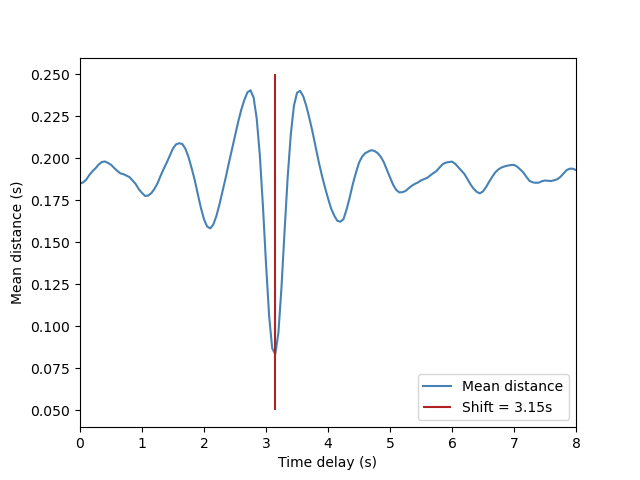
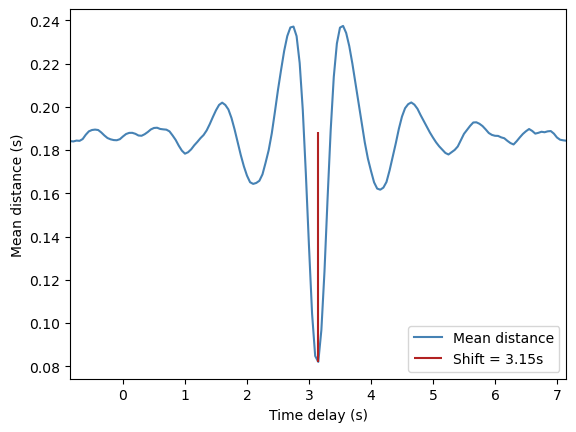
fixed plotting and unix epoch float overflow

diff --git a/tests/test_performances.py b/tests/test_performances.py
@@ -5,7 +5,7 @@ import sys
 import time
 import numpy as np
 np.random.seed(0)
-sys.path.append(".")
+sys.path.append("src")
 
 N = 1_000                 # number of events in the random arrays
 TIME_SHIFT = np.pi        # true time-shift between the two arrays
@@ -23,15 +23,15 @@ arr_ref = np.sort(np.cumsum(np.random.normal(loc=1, scale=0.25, size=N)))
 arr_sig = np.sort(arr_ref + TIME_SHIFT + np.random.normal(loc=0, scale=0.1, size=N))
 
 # Time the numba-solution
-from src.nearest_advocate_numba import nearest_advocate
+from nearest_advocate_numba import nearest_advocate
 # run once before the test to just-in-time compile it
-np_nearest = nearest_advocate(arr_ref=arr_ref, arr_sig=arr_sig, 
-                              td_min=-1, td_max=1, sps=SAMPLES_PER_S, sparse_factor=1, 
+np_nearest = nearest_advocate(arr_ref=arr_ref, arr_sig=arr_sig,
+                              td_min=-1, td_max=1, sps=SAMPLES_PER_S, sparse_factor=1,
                               dist_max=DEF_DIST, regulate_paddings=REGULATE_PADDINGS, dist_padding=DEF_DIST)
 
 start_time = time.time()
-np_nearest = nearest_advocate(arr_ref=arr_ref, arr_sig=arr_sig, 
-                              td_min=TD_MIN, td_max=TD_MAX, sps=SAMPLES_PER_S, sparse_factor=1, 
+np_nearest = nearest_advocate(arr_ref=arr_ref, arr_sig=arr_sig,
+                              td_min=TD_MIN, td_max=TD_MAX, sps=SAMPLES_PER_S, sparse_factor=1,
                               dist_max=DEF_DIST, regulate_paddings=REGULATE_PADDINGS, dist_padding=DEF_DIST)
 pytime = time.time() - start_time
 time_shift, min_mean_dist = np_nearest[np.argmin(np_nearest[:,1])]
@@ -40,35 +40,34 @@ print(f"Numba:   \t{pytime:.8f} s, \t detected time shift: {time_shift:.2f} s, \
 # # Time the Cython-solution
 # from src.nearest_advocate_cython import nearest_advocate
 # start_time = time.time()
-# np_nearest = nearest_advocate(arr_ref=arr_ref, arr_sig=arr_sig, 
-#                                 td_min=TD_MIN, td_max=TD_MAX, sps=SAMPLES_PER_S, sparse_factor=1, 
+# np_nearest = nearest_advocate(arr_ref=arr_ref, arr_sig=arr_sig,
+#                                 td_min=TD_MIN, td_max=TD_MAX, sps=SAMPLES_PER_S, sparse_factor=1,
 #                                 dist_max=DEF_DIST, regulate_paddings=REGULATE_PADDINGS, dist_padding=DEF_DIST)
 # pytime = time.time() - start_time
 # time_shift, min_mean_dist = np_nearest[np.argmin(np_nearest[:,1])]
 # print(f"Cython:   \t{pytime:.8f} s, \t detected time shift: {time_shift:.2f} s, \t minimal mean distance: {min_mean_dist:.6f} s")
 
 # Time the pure Python-solution
-from src.nearest_advocate_python import nearest_advocate
+from nearest_advocate_python import nearest_advocate
 start_time = time.time()
-np_nearest = nearest_advocate(arr_ref=arr_ref, arr_sig=arr_sig, 
-                              td_min=TD_MIN, td_max=TD_MAX, sps=SAMPLES_PER_S, sparse_factor=1, 
+np_nearest = nearest_advocate(arr_ref=arr_ref, arr_sig=arr_sig,
+                              td_min=TD_MIN, td_max=TD_MAX, sps=SAMPLES_PER_S, sparse_factor=1,
                               dist_max=DEF_DIST, regulate_paddings=REGULATE_PADDINGS, dist_padding=DEF_DIST)
 pytime = time.time() - start_time
 time_shift, min_mean_dist = np_nearest[np.argmin(np_nearest[:,1])]
 print(f"Python:   \t{pytime:.8f} s, \t detected time shift: {time_shift:.2f} s, \t minimal mean distance: {min_mean_dist:.6f} s")
 
 
-
 print("\n" + " Compare versions for multiple lengths ".center(60, "#"))
 print("Method \t" + "".join([str(l).center(10) for l in LENGTHS]))
 
 # Time the numba-solution
-from src.nearest_advocate_numba import nearest_advocate
+from nearest_advocate_numba import nearest_advocate
 # run once before the test to just-in-time compile it
-_ = nearest_advocate(arr_ref=arr_ref, arr_sig=arr_sig, 
-                      td_min=TD_MIN, td_max=TD_MAX, sps=SAMPLES_PER_S, sparse_factor=1, 
-                      dist_max=DEF_DIST, regulate_paddings=REGULATE_PADDINGS,
-                      dist_padding=DEF_DIST)
+_ = nearest_advocate(arr_ref=arr_ref, arr_sig=arr_sig,
+                     td_min=TD_MIN, td_max=TD_MAX, sps=SAMPLES_PER_S, sparse_factor=1,
+                     dist_max=DEF_DIST, regulate_paddings=REGULATE_PADDINGS,
+                     dist_padding=DEF_DIST)
 print("Numba: \t", end="")
 for length in LENGTHS:
     # Create two related event-based array, they differ by a time-shift and gaussian noise
@@ -76,15 +75,15 @@ for length in LENGTHS:
     arr_sig = np.sort(arr_ref + TIME_SHIFT + np.random.normal(loc=0, scale=0.1, size=length))
 
     start_time = time.time()
-    np_nearest = nearest_advocate(arr_ref=arr_ref, arr_sig=arr_sig, 
+    np_nearest = nearest_advocate(arr_ref=arr_ref, arr_sig=arr_sig,
                                   td_min=TD_MIN, td_max=TD_MAX, sps=SAMPLES_PER_S,
-                                  sparse_factor=1, dist_max=DEF_DIST, 
+                                  sparse_factor=1, dist_max=DEF_DIST,
                                   regulate_paddings=REGULATE_PADDINGS, dist_padding=DEF_DIST)
     print(f"{time.time()-start_time:.6f}".center(10), end="")
-    
+
 
 # # Time the Cython-solution
-# from src.nearest_advocate_cython import nearest_advocate
+# from nearest_advocate_cython import nearest_advocate
 # print("Cython: \t", end="")
 # for length in LENGTHS:
 #     # Create two related event-based array, they differ by a time-shift and gaussian noise
@@ -92,9 +91,8 @@ for length in LENGTHS:
 #     arr_sig = np.sort(arr_ref + TIME_SHIFT + np.random.normal(loc=0, scale=0.1, size=length))
 
 #     start_time = time.time()
-#     np_nearest = nearest_advocate(arr_ref=arr_ref, arr_sig=arr_sig, 
+#     np_nearest = nearest_advocate(arr_ref=arr_ref, arr_sig=arr_sig,
 #                                   td_min=TD_MIN, td_max=TD_MAX, sps=SAMPLES_PER_S,
-#                                   sparse_factor=1, dist_max=DEF_DIST, 
+#                                   sparse_factor=1, dist_max=DEF_DIST,
 #                                   regulate_paddings=REGULATE_PADDINGS, dist_padding=DEF_DIST)
 #     print(f"{time.time()-start_time:.6f}".center(10), end="")
-    

diff --git a/tests/test_algorithm.py b/tests/test_algorithm.py
@@ -4,9 +4,8 @@
 import numpy as np
 from numpy.testing import assert_equal, assert_almost_equal
 
-# from scipy.signal import nearest_advocate
 import sys
-sys.path.append(".")
+sys.path.append("src")
 
 SEED = 0
 
@@ -133,7 +132,44 @@ def test_nearest_advocate_base_noverlap():
     assert_equal(min_mean_dist, DEF_DIST)
 
 
+def test_nearest_advocate_bigtime():
+    N = 1_000
+    DEF_DIST = 0.25
+    time_unix = 1692720007.811548
+
+    np.random.seed(SEED)
+    arr_ref = np.sort(np.cumsum(np.random.normal(
+        loc=1, scale=0.25, size=N)) + time_unix)
+    arr_sig = np.sort(arr_ref + np.pi + np.random.normal(
+        loc=0, scale=0.1, size=N))
+
+    # subtract the minimal event timestamp
+    min_event_time = min(arr_ref[0], arr_sig[0])
+    arr_ref -= min_event_time
+    arr_sig -= min_event_time
+
+    np_nearest = nearest_advocate(
+        arr_ref=arr_ref, arr_sig=arr_sig,
+        td_min=-60, td_max=60, sps=20, sparse_factor=1,
+        dist_max=DEF_DIST, regulate_paddings=True, dist_padding=DEF_DIST)
+    time_shift, min_mean_dist = np_nearest[np.argmin(np_nearest[:, 1])]
+
+    assert_almost_equal(time_shift, np.pi, decimal=1)
+    assert_almost_equal(min_mean_dist, 0.07694374, decimal=2)
+
+
 if __name__ == "__main__":
+    print("Testing generic-version:  \t", end="")
+    from nearest_advocate import nearest_advocate
+    test_nearest_advocate_base()
+    test_nearest_advocate_edge()
+    test_nearest_advocate_base_defmax()
+    test_nearest_advocate_base_fewoverlap()
+    test_nearest_advocate_base_nopadding()
+    test_nearest_advocate_base_noverlap()
+    test_nearest_advocate_bigtime()
+    print("ok")
+
     print("Testing numba-version:  \t", end="")
     from nearest_advocate_numba import nearest_advocate
     test_nearest_advocate_base()
@@ -142,8 +178,9 @@ if __name__ == "__main__":
     test_nearest_advocate_base_fewoverlap()
     test_nearest_advocate_base_nopadding()
     test_nearest_advocate_base_noverlap()
+    # test_nearest_advocate_bigtime()  # only for caller
     print("ok")
-    
+
     # print("Testing Cython-version:  \t", end="")
     # from nearest_advocate_cython import nearest_advocate
     # test_nearest_advocate_base()
@@ -153,7 +190,7 @@ if __name__ == "__main__":
     # test_nearest_advocate_base_nopadding()
     # test_nearest_advocate_base_noverlap()
     # print("ok")
-    
+
     print("Testing Python-version:  \t", end="")
     from nearest_advocate_python import nearest_advocate
     test_nearest_advocate_base()
@@ -162,5 +199,5 @@ if __name__ == "__main__":
     test_nearest_advocate_base_fewoverlap()
     test_nearest_advocate_base_nopadding()
     test_nearest_advocate_base_noverlap()
+    # test_nearest_advocate_bigtime()  # only for caller
     print("ok")
-    

diff --git a/tests/test_search.py b/tests/test_search.py
@@ -1,11 +1,14 @@
 #!/usr/bin/env python
 """Tester for the nearest_advocate algorithm for a given search space of time-shifts. Comparision of runtime for Numba and Cython."""
 
+import sys
 import time
 import numpy as np
 np.random.seed(0)
 
 from numba import njit
+
+sys.path.append("src")
 
 
 N = 10_000                # number of events in the random arrays
@@ -24,13 +27,13 @@ arr_sig = np.sort(arr_ref + TIME_SHIFT + np.random.normal(loc=0, scale=0.1, size
 # Time the numba-solution
 from nearest_advocate_numba import nearest_advocate
 # run once before the test to just-in-time compile it
-np_nearest = nearest_advocate(arr_ref=arr_ref, arr_sig=arr_sig, 
-                              td_min=-1, td_max=1, sps=SAMPLES_PER_S, sparse_factor=1, 
+np_nearest = nearest_advocate(arr_ref=arr_ref, arr_sig=arr_sig,
+                              td_min=-1, td_max=1, sps=SAMPLES_PER_S, sparse_factor=1,
                               dist_max=DEF_DIST, regulate_paddings=REGULATE_PADDINGS, dist_padding=DEF_DIST)
 
 start_time = time.time()
-np_nearest = nearest_advocate(arr_ref=arr_ref, arr_sig=arr_sig, 
-                              td_min=TD_MIN, td_max=TD_MAX, sps=SAMPLES_PER_S, sparse_factor=1, 
+np_nearest = nearest_advocate(arr_ref=arr_ref, arr_sig=arr_sig,
+                              td_min=TD_MIN, td_max=TD_MAX, sps=SAMPLES_PER_S, sparse_factor=1,
                               dist_max=DEF_DIST, regulate_paddings=REGULATE_PADDINGS, dist_padding=DEF_DIST)
 pytime = time.time() - start_time
 time_shift, min_mean_dist = np_nearest[np.argmin(np_nearest[:,1])]
@@ -40,8 +43,8 @@ print(f"Numba:   \t{pytime:.8f} s, \t detected time shift: {time_shift:.2f} s, \
 # # Time the Cython-solution
 # from nearest_advocate_cython import nearest_advocate
 # start_time = time.time()
-# np_nearest = nearest_advocate(arr_ref=arr_ref, arr_sig=arr_sig, 
-#                                 td_min=TD_MIN, td_max=TD_MAX, sps=SAMPLES_PER_S, sparse_factor=1, 
+# np_nearest = nearest_advocate(arr_ref=arr_ref, arr_sig=arr_sig,
+#                                 td_min=TD_MIN, td_max=TD_MAX, sps=SAMPLES_PER_S, sparse_factor=1,
 #                                 dist_max=DEF_DIST, regulate_paddings=REGULATE_PADDINGS, dist_padding=DEF_DIST)
 # pytime = time.time() - start_time
 # time_shift, min_mean_dist = np_nearest[np.argmin(np_nearest[:,1])]

diff --git a/src/nearest_advocate_numba.py b/src/nearest_advocate_numba.py
@@ -1,10 +1,16 @@
 #!/usr/bin/env python
 """A time delay estimation method for event-based time-series in numba."""
 
-
-import numba
-import numpy as np
 from typing import Optional
+
+import numpy as np
+
+try:
+    import numba
+except ModuleNotFoundError:
+    print("\nError: The 'numba' module is not installed.")
+    print("You can install it using the following command:")
+    print("pip install numba\n")
 
 
 @numba.njit(parallel=False)
@@ -109,8 +115,8 @@ def nearest_advocate(arr_ref: np.ndarray, arr_sig: np.ndarray,
         Number of investigated time-shifts per second. Default None: sets it at 10 divided by the median gap of each array.
     sparse_factor : int, optional
         Factor for the sparseness of `arr_sig` for the calculation, higher is faster at the cost of precision (default 1).
-    dist_max : float, optional
-        Maximal accepted distances between two advocate events. Default None: 1/4 of the median gap of each array.
+    dist_max : float
+        Maximal accepted distances between two advocate events. Should be around 1/4 of the average gap of each array.
     regulate_paddings : bool, optional
         Regulate non-overlapping events in `arr_sig` with a maximum distance of dist_padding (default True).
     dist_padding : float, optional
@@ -147,8 +153,8 @@ def nearest_advocate(arr_ref: np.ndarray, arr_sig: np.ndarray,
 
     >>> import matplotlib.pyplot as plt
     >>> plt.plot(time_shifts[:,0], time_shifts[:,1], color="steelblue", label="Mean distance")
-    >>> plt.vlines(x=time_shift, ymin=0.05, ymax=0.25, color="firebrick", label=f"Shift = {time_shift:.2f}s")
-    >>> plt.xlim(0, 8)
+    >>> plt.vlines(x=time_shift, ymin=min_mean_dist, ymax=np.mean(time_shifts[:,1]), color="firebrick", label=f"Shift = {time_shift:.2f}s")
+    >>> plt.xlim(time_shift-4, time_shift+4)
     >>> plt.xlabel("Time delay (s)")
     >>> plt.ylabel("Mean distance (s)")
     >>> plt.legend(loc="lower right")

diff --git a/src/nearest_advocate.py b/src/nearest_advocate.py
@@ -3,13 +3,14 @@
 
 __author__ = "Christoph Schranz"
 __copyright__ = "Copyright 2023, Salzburg Research"
-__version__ = "0.1.8"
+__version__ = "0.1.9"
 __maintainer__ = "Christoph Schranz, Mathias Schmoigl-Tonis"
 __credits__ = ["Christoph Schranz", "Mathias Schmoigl-Tonis"]
 
 
-import numpy as np
 from typing import Optional
+
+import numpy as np
 
 # Using the numba-implementation right now
 from nearest_advocate_numba import nearest_advocate as _nearest_advocate
@@ -92,14 +93,18 @@ def nearest_advocate(arr_ref: 'np.ndarray[np.float32]', arr_sig: 'np.ndarray[np.
 
     >>> import matplotlib.pyplot as plt
     >>> plt.plot(time_shifts[:,0], time_shifts[:,1], color="steelblue", label="Mean distance")
-    >>> plt.vlines(x=time_shift, ymin=0.05, ymax=0.25, color="firebrick", label=f"Shift = {time_shift:.2f}s")
-    >>> plt.xlim(0, 8)
+    >>> plt.vlines(x=time_shift, ymin=min_mean_dist, ymax=np.mean(time_shifts[:,1]), color="firebrick", label=f"Shift = {time_shift:.2f}s")
+    >>> plt.xlim(time_shift-4, time_shift+4)
     >>> plt.xlabel("Time delay (s)")
     >>> plt.ylabel("Mean distance (s)")
     >>> plt.legend(loc="lower right")
-    >>> plt.savefig("tmp.png")
     >>> plt.show()
     '''
+    # subtract the minimal timestamp to avoid floating point error
+    min_event_time = min(arr_ref[0], arr_sig[0])
+    arr_ref -= min_event_time
+    arr_sig -= min_event_time
+
     # cast the arrays to numpy arrays
     arr_ref_ = np.array(arr_ref, dtype=np.float32)
     arr_sig_ = np.array(arr_sig, dtype=np.float32)

diff --git a/src/nearest_advocate_cython.py b/src/nearest_advocate_cython.py
@@ -71,9 +71,9 @@ def nearest_advocate(arr_ref, arr_sig,
 
     >>> import matplotlib.pyplot as plt
     >>> plt.plot(time_shifts[:,0], time_shifts[:,1], color="steelblue", label="Mean distance")
-    >>> plt.vlines(x=time_shift, ymin=0.05, ymax=0.25, color="firebrick", label=f"Shift = {time_shift:.2f}s")
-    >>> plt.xlim(0, 8)
-    >>> plt.xlabel("Time shift (s)")
+    >>> plt.vlines(x=time_shift, ymin=min_mean_dist, ymax=np.mean(time_shifts[:,1]), color="firebrick", label=f"Shift = {time_shift:.2f}s")
+    >>> plt.xlim(time_shift-4, time_shift+4)
+    >>> plt.xlabel("Time delay (s)")
     >>> plt.ylabel("Mean distance (s)")
     >>> plt.legend(loc="lower right")
     >>> plt.show()

diff --git a/README.md b/README.md
@@ -8,7 +8,7 @@ This repository contains the source code, demo data, research experiments as wel
 ## Scope of the package
 
 This package focuses on the time delay estimation between two event-based time-series that are relatively shifted by an unknown time offset. An event-based time-series is given by a set of timestamps of certain events.
-If you want to guarantee synchronous measurements in advance or estimate the time delay of continuous measurements sampled at a constant rate, you might want to use other methods. 
+If you want to guarantee synchronous measurements in advance or estimate the time delay of continuous measurements sampled at a constant rate, you might want to use other methods.
 However, in some use cases, performing an event detection and then estimating the relative time delay has advantages.
 The Nearest Advocate method provides a **precise time delay estimation in event-based time-series** that is **robust against imprecise timestamps, a high fraction of missing events, and clock drift**.
 
@@ -26,7 +26,7 @@ Open Python and import and use it for time delay estimation of event-based time-
 ```python
 import numpy as np
 import nearest_advocate
-```  
+```
 
 Create a reference array whose inter-event intervals are sampled from a normal distribution. The signal array is a clone of the reference´, shifted by `np.pi` and added Gaussian noise. The event's timestamps of both arrays must be sorted.
 
@@ -35,7 +35,7 @@ arr_ref = np.sort(np.cumsum(np.random.normal(loc=1, scale=0.25, size=1000)))
 arr_sig = np.sort(arr_ref + np.pi + np.random.normal(loc=0, scale=0.1, size=1000))
 ```
 
-The function `nearest_advocate.nearest_advocate` returns a two-columned array with all investigated time-shifts and their mean distances, i.e., the measure of the synchronicity between both arrays (lower is better). 
+The function `nearest_advocate.nearest_advocate` returns a two-columned array with all investigated time-shifts and their mean distances, i.e., the measure of the synchronicity between both arrays (lower is better).
 
 ```python
 time_shifts = nearest_advocate.nearest_advocate(arr_ref=arr_ref, arr_sig=arr_sig, td_min=-60, td_max=60, sps=20)
@@ -46,15 +46,14 @@ print(f"Found an optimum at {time_shift:.4f}s with a minimal mean distance of {m
 
 Create a plot of the resulting characteristic curve of Nearest Advocate, the global minimum of the curve is used as time delay estimation.
 
-```python 
+```python
 import matplotlib.pyplot as plt
 plt.plot(time_shifts[:,0], time_shifts[:,1], color="steelblue", label="Mean distance")
-plt.vlines(x=time_shift, ymin=0.05, ymax=0.25, color="firebrick", label=f"Shift = {time_shift:.2f}s")
-plt.xlim(0, 8)
+plt.vlines(x=time_shift, ymin=min_mean_dist, ymax=np.mean(time_shifts[:,1]), color="firebrick", label=f"Shift = {time_shift:.2f}s")
+plt.xlim(time_shift-4, time_shift+4)
 plt.xlabel("Time delay (s)")
 plt.ylabel("Mean distance (s)")
 plt.legend(loc="lower right")
-plt.savefig("time_delay_estimation.png")
 plt.show()
 ```
 
@@ -100,10 +99,10 @@ python tests/test_performances.py
 #> Numba:          0.01329827 s,    detected time shift: 3.15 s,    minimal mean distance: 0.084238 s
 #> Cython:         0.01338649 s,    detected time shift: 3.15 s,    minimal mean distance: 0.084238 s
 #> Python:         3.06915808 s,    detected time shift: 3.15 s,    minimal mean distance: 0.084238 s
-#> 
+#>
 #> ########## Compare versions for multiple lengths ###########
-#> Method      10       100       1000     10000     100000  
-#> Numba:   0.000157  0.000786  0.013276  0.138520  1.402027 
+#> Method      10       100       1000     10000     100000
+#> Numba:   0.000157  0.000786  0.013276  0.138520  1.402027
 ```
 
 
@@ -118,7 +117,7 @@ Read the the [build-README.md](#scipydev/REAMDE.md)
  -->
 
 
-## Citation 
+## Citation
 
 When using in academic works please cite:
 
